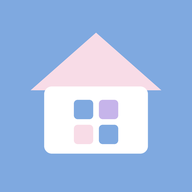
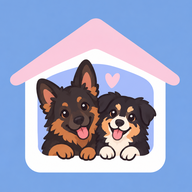
Add files via upload

diff --git a/index.html b/index.html
@@ -7,7 +7,7 @@
 <meta name="theme-color" content="#7FA9E0">
 <link rel="icon" href="icon-192.png">
 <link rel="apple-touch-icon" href="icon-192.png">
-<title>Nasze Apki</title>
+<title>Pieseczkowo</title>
 <link rel="preconnect" href="https://fonts.googleapis.com">
 <link rel="preconnect" href="https://fonts.gstatic.com" crossorigin>
 <link href="https://fonts.googleapis.com/css2?family=Fredoka:wght@400;500;600;700&family=Nunito:wght@400;600;700;800&display=swap" rel="stylesheet">
@@ -67,7 +67,7 @@
       <path d="M24 26.2c-1.1 1.3-2.8 1.5-3.8.6M24 26.2c1.1 1.3 2.8 1.5 3.8.6" stroke="var(--text)" stroke-width="1" stroke-linecap="round"/>
     </svg>
   </div>
-  <h1>Nasze Apki</h1>
+  <h1>Pieseczkowo</h1>
   <p class="tagline">Wybierz, co chcesz otworzyć</p>
 
   <div class="cards">
